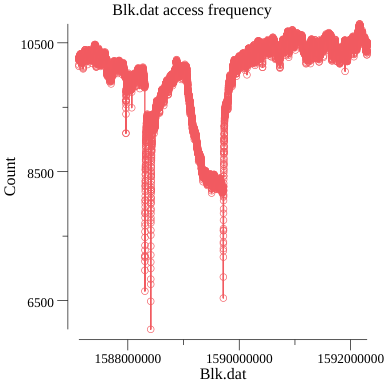
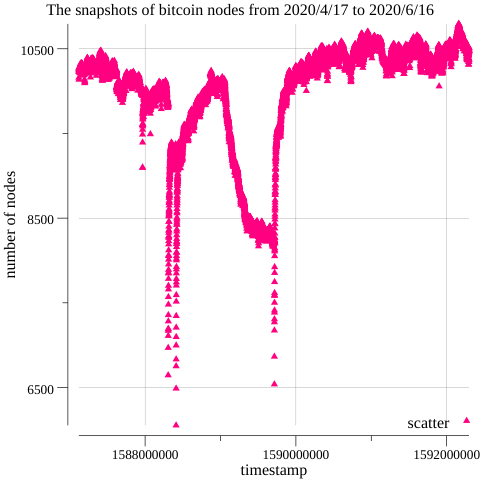
test float64 and percentage

diff --git a/MyPlot/plot.go b/MyPlot/plot.go
@@ -9,7 +9,9 @@ import (
 	"log"
 	"os"
 	"strconv"
+	"time"
 
+	"github.com/negah/percent"
 	"gonum.org/v1/plot"
 	"gonum.org/v1/plot/plotter"
 	"gonum.org/v1/plot/plotutil"
@@ -18,10 +20,152 @@ import (
 )
 
 func main() {
-	simple()
-	myplot()
+	// simple()
+	// plotsnapshots()
 	// RunExample()
+	unixTime1 := time.Unix(1592295927, 0) //gives unix time stamp in utc
+	unixTime2 := time.Unix(1587121480, 0) //gives unix time stamp in utc
+	fmt.Println(unixTime1.Format("2006-01-02 15:04:05"))
+	fmt.Println(unixTime2.Format("2006-01-02 15:04:05"))
 
+	//test percernt package
+	fmt.Println(percent.PercentFloat(0.3, 200))	
+	fmt.Println(percent.PercentOf(5, 200))
+
+	var testf float64
+	testf = (10160.0-10136.0)/10160.0
+	fmt.Printf("%f %% \n",testf*100)
+	testf = 625.0 / 10000.0
+	fmt.Printf("%f %% \n",testf*100)
+	
+
+}
+func plotchurn() {
+	p, _ := plot.New()
+
+	p.Title.Text = "The churn rate of bitcoin nodes from 2020/4/17 to 2020/6/16"
+	p.X.Label.Text = "timestamp"
+	p.Y.Label.Text = "number of nodes"
+	p.Add(plotter.NewGrid())
+	// var points plotter.XYs
+}
+func calculateChurn() {
+	// Open the file
+	csvfile, err := os.Open("nodes.csv")
+	if err != nil {
+		log.Fatalln("Couldn't open the csv file", err)
+	}
+	// Parse the file
+	r := csv.NewReader(csvfile)
+
+	// mycode
+	var counter int
+	counter = 1
+	var tmptimestamp, tmpnodes, currenttimestamp, currentnodes int64
+	var churn_rate float64
+
+	// Iterate through the records
+	for {
+		// Read each record from csv
+		record, err := r.Read()
+		if err == io.EOF {
+			break
+		}
+		if err != nil {
+			log.Fatal(err)
+		}
+		// fmt.Printf("Question: %s Answer %s\n", record[0], record[1])
+		if counter == 1 {
+			tmptimestamp, err = strconv.ParseInt(record[0], 10, 64)
+			tmpnodes, err = strconv.ParseInt(record[1], 10, 64)
+		} else {
+			currenttimestamp, err = strconv.ParseInt(record[0], 10, 64)
+			currentnodes, err = strconv.ParseInt(record[1], 10, 64)
+
+			churn_rate := tmpnodes / currentnodes
+			fmt.Printf("%f %f\n", churn_rate, tmptimestamp)
+			tmptimestamp = currenttimestamp
+			tmpnodes = currentnodes
+
+		}
+		fmt.Println(churn_rate)
+		counter++
+
+	}
+
+}
+func plotsnapshots() {
+	p, _ := plot.New()
+
+	p.Title.Text = "The snapshots of bitcoin nodes from 2020/4/17 to 2020/6/16"
+	p.X.Label.Text = "timestamp"
+	p.Y.Label.Text = "number of nodes"
+	p.Add(plotter.NewGrid())
+
+	// points := plotter.XYs{
+	// 	{1592295927, 10462},
+	// 	{1592295633, 10485},
+	// 	{1592295338, 10480},
+	// 	{1592294991, 10515},
+	// 	{1592294614, 10497},
+	// }
+
+	var points plotter.XYs
+
+	points = readcsv()
+	// plotutil.AddLinePoints(p, points)
+
+	// Make a scatter plotter and set its style.
+	s, err := plotter.NewScatter(points)
+	if err != nil {
+		panic(err)
+	}
+	s.GlyphStyle.Color = color.RGBA{R: 255, B: 128, A: 255}
+	s.Shape = draw.PyramidGlyph{}
+	p.Add(s)
+	p.Legend.Add("scatter", s)
+
+	p.Save(5*vg.Inch, 5*vg.Inch, "nodes.png")
+
+}
+
+func readcsv() plotter.XYs {
+	// Open the file
+	csvfile, err := os.Open("nodes.csv")
+	if err != nil {
+		log.Fatalln("Couldn't open the csv file", err)
+	}
+
+	// Parse the file
+	r := csv.NewReader(csvfile)
+	//r := csv.NewReader(bufio.NewReader(csvfile))
+
+	//my code
+	var points plotter.XYs
+
+	var count int
+	// Iterate through the records
+	for {
+		// Read each record from csv
+		record, err := r.Read()
+		if err == io.EOF {
+			break
+		}
+		if err != nil {
+			log.Fatal(err)
+		}
+		// fmt.Printf("Question: %s Answer %s\n", record[0], record[1])
+		var x, y float64
+		x, err = strconv.ParseFloat(record[0], 64)
+		y, err = strconv.ParseFloat(record[1], 64)
+		points = append(points, struct{ X, Y float64 }{x, y})
+		if y < 7000 {
+			fmt.Println("the pair is: ", record[0], record[1])
+		}
+		count++
+	}
+	fmt.Println("total: ", count)
+	return points
 }
 
 // type xy struct{ x, y float64 }
@@ -132,70 +276,4 @@ func simple() {
 	plotutil.AddLinePoints(p, points)
 
 	p.Save(4*vg.Inch, 4*vg.Inch, "price.png")
-}
-
-func myplot() {
-	p, _ := plot.New()
-
-	p.Title.Text = "Blk.dat access frequency"
-	p.X.Label.Text = "Blk.dat"
-	p.Y.Label.Text = "Count"
-
-	// points := plotter.XYs{
-	// 	{1592295927, 10462},
-	// 	{1592295633, 10485},
-	// 	{1592295338, 10480},
-	// 	{1592294991, 10515},
-	// 	{1592294614, 10497},
-	// }
-
-	var points plotter.XYs
-	// for loop read data
-	// var x, y float64
-
-	// points = append(points, struct{ X, Y float64 }{x, y})
-	points = readcsv()
-	plotutil.AddLinePoints(p, points)
-
-	p.Save(4*vg.Inch, 4*vg.Inch, "nodes.png")
-
-}
-
-func readcsv() plotter.XYs {
-	// Open the file
-	csvfile, err := os.Open("nodes.csv")
-	if err != nil {
-		log.Fatalln("Couldn't open the csv file", err)
-	}
-
-	// Parse the file
-	r := csv.NewReader(csvfile)
-	//r := csv.NewReader(bufio.NewReader(csvfile))
-
-	//my code
-	var points plotter.XYs
-
-	var count int
-	// Iterate through the records
-	for {
-		// Read each record from csv
-		record, err := r.Read()
-		if err == io.EOF {
-			break
-		}
-		if err != nil {
-			log.Fatal(err)
-		}
-		// fmt.Printf("Question: %s Answer %s\n", record[0], record[1])
-		var x, y float64
-		x, err = strconv.ParseFloat(record[0], 64)
-		y, err = strconv.ParseFloat(record[1], 64)
-		points = append(points, struct{ X, Y float64 }{x, y})
-		if y < 7000 {
-			fmt.Println("the pair is: ", record[0], record[1])
-		}
-		count++
-	}
-	fmt.Println("total: ", count)
-	return points
 }

diff --git a/Httpapi/test.go b/Httpapi/test.go
@@ -20,6 +20,7 @@ var has_next bool
 var next interface{}
 
 func appendToCSV(data Data) {
+	// check if nodes.csv exists
 	_, err := os.Open("nodes.csv")
 	if err != nil {
 		// fmt.Println(os.IsNotExist(err)) //true  證明檔案已經存在
